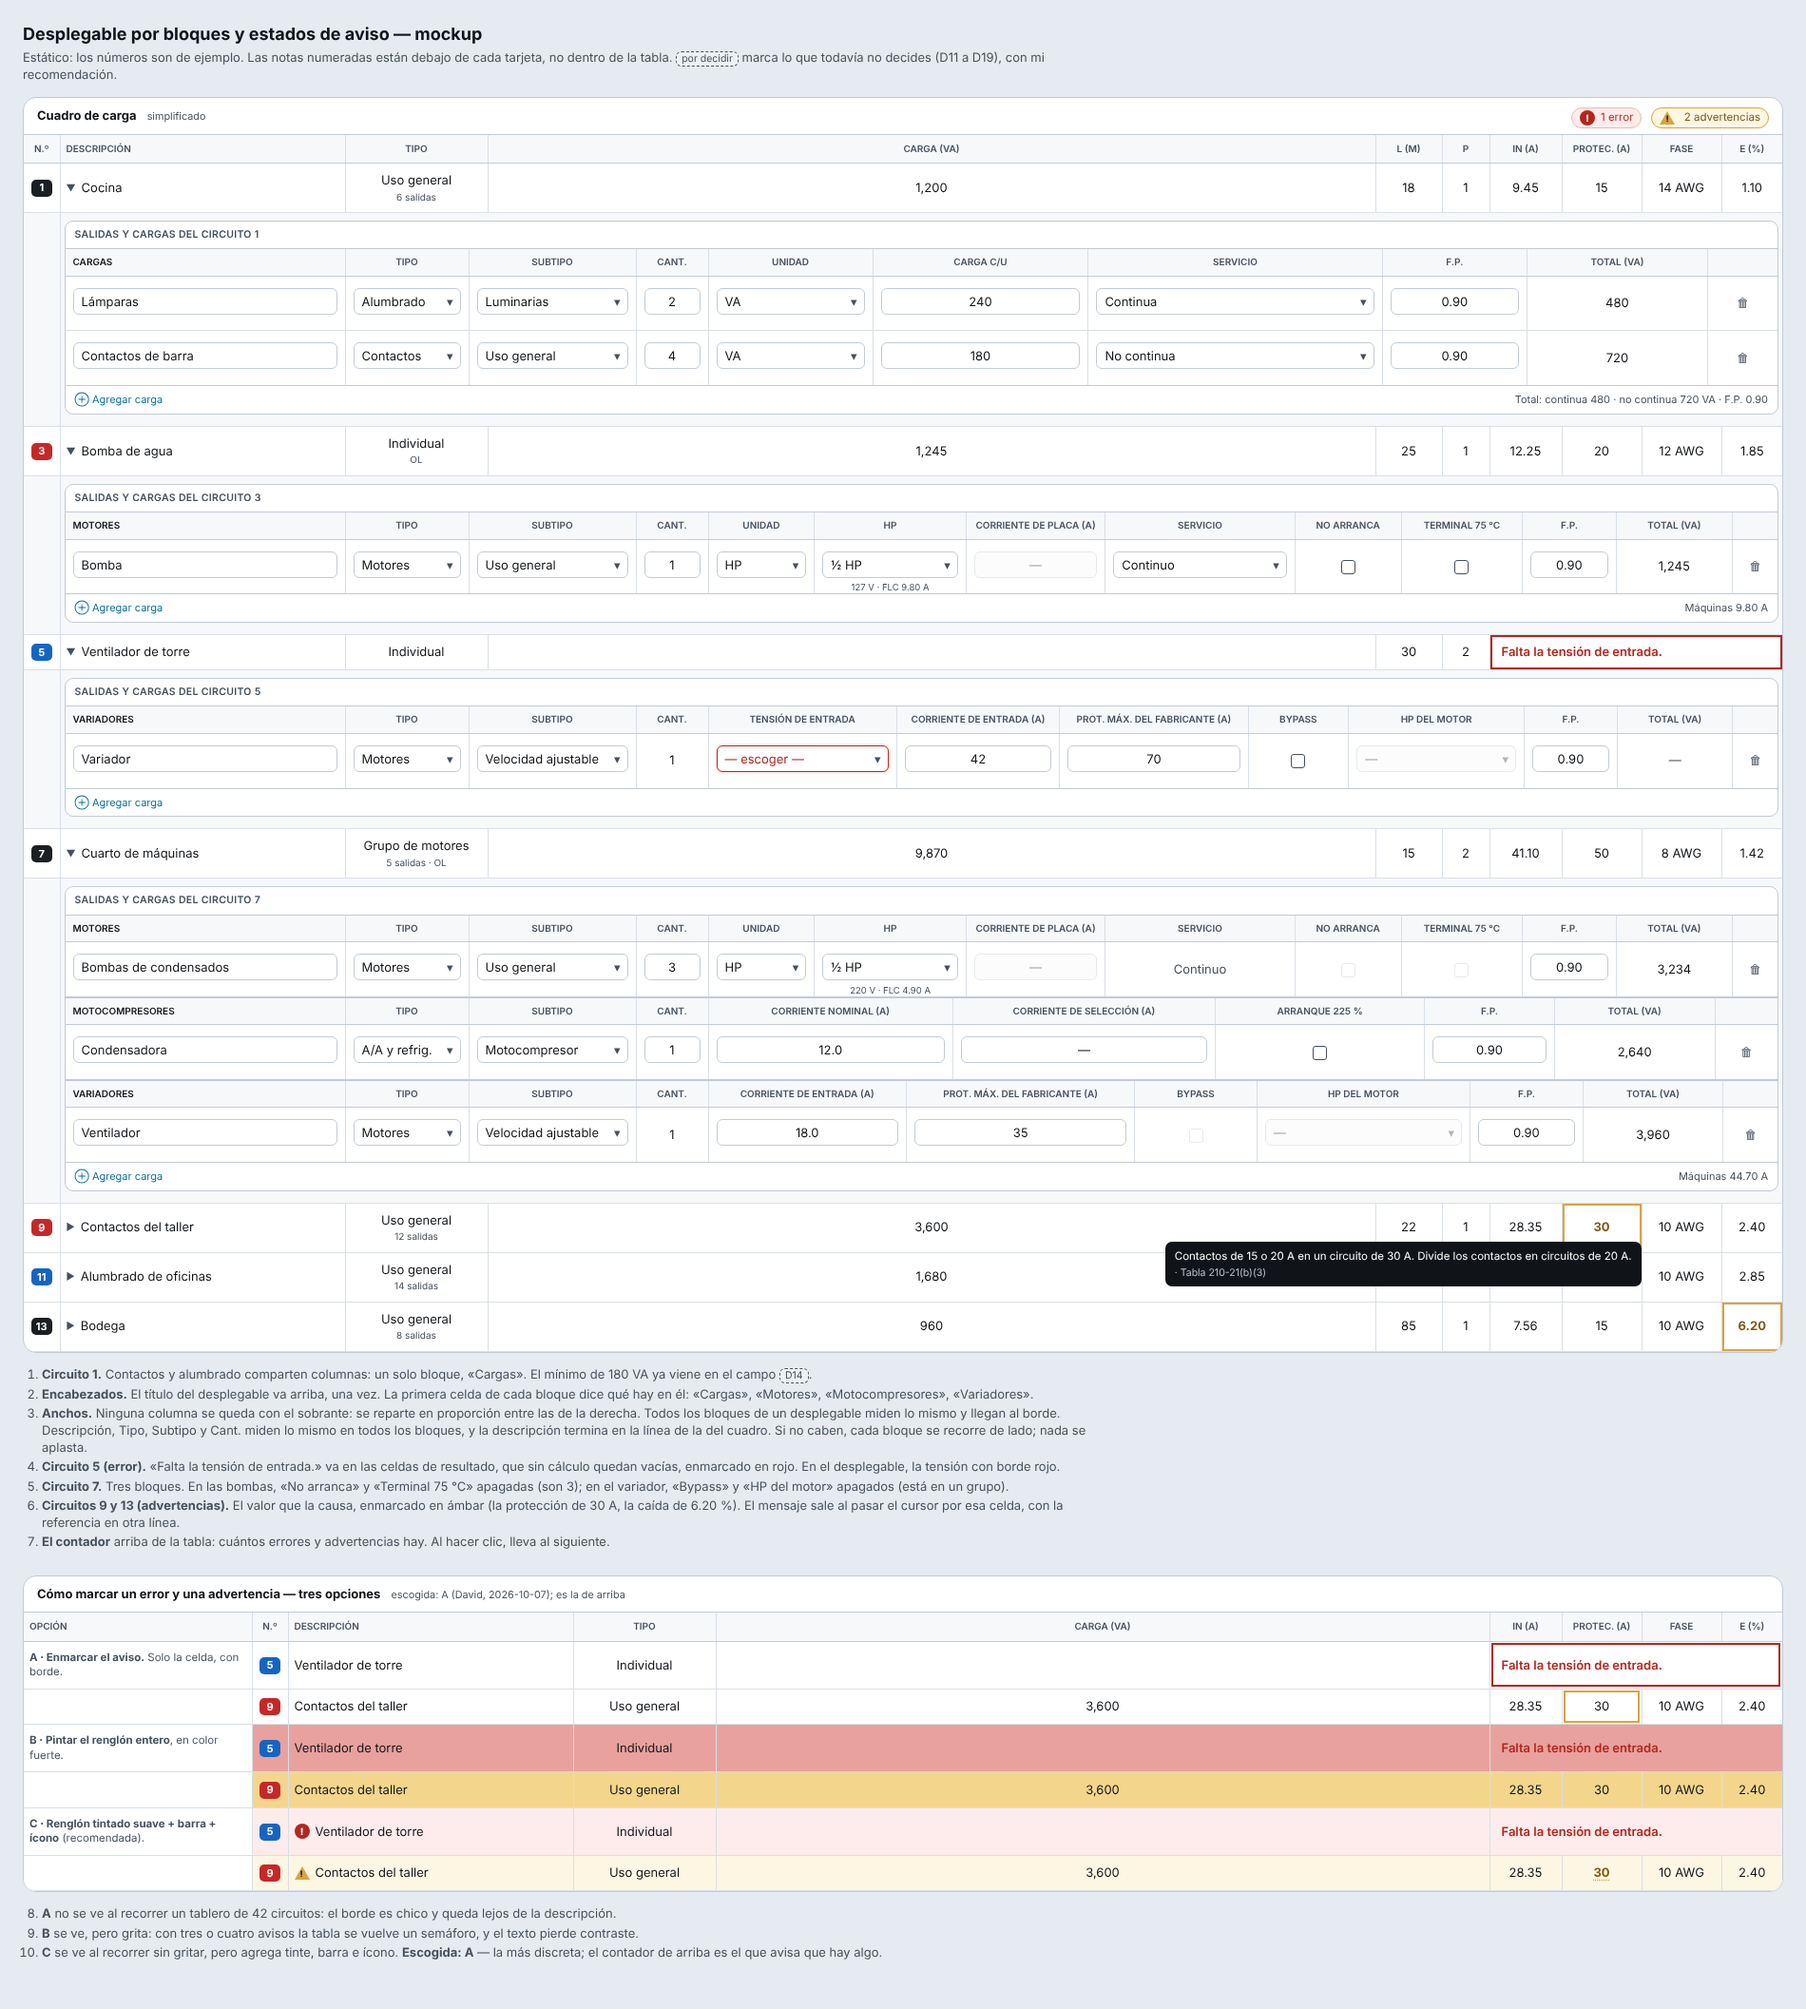
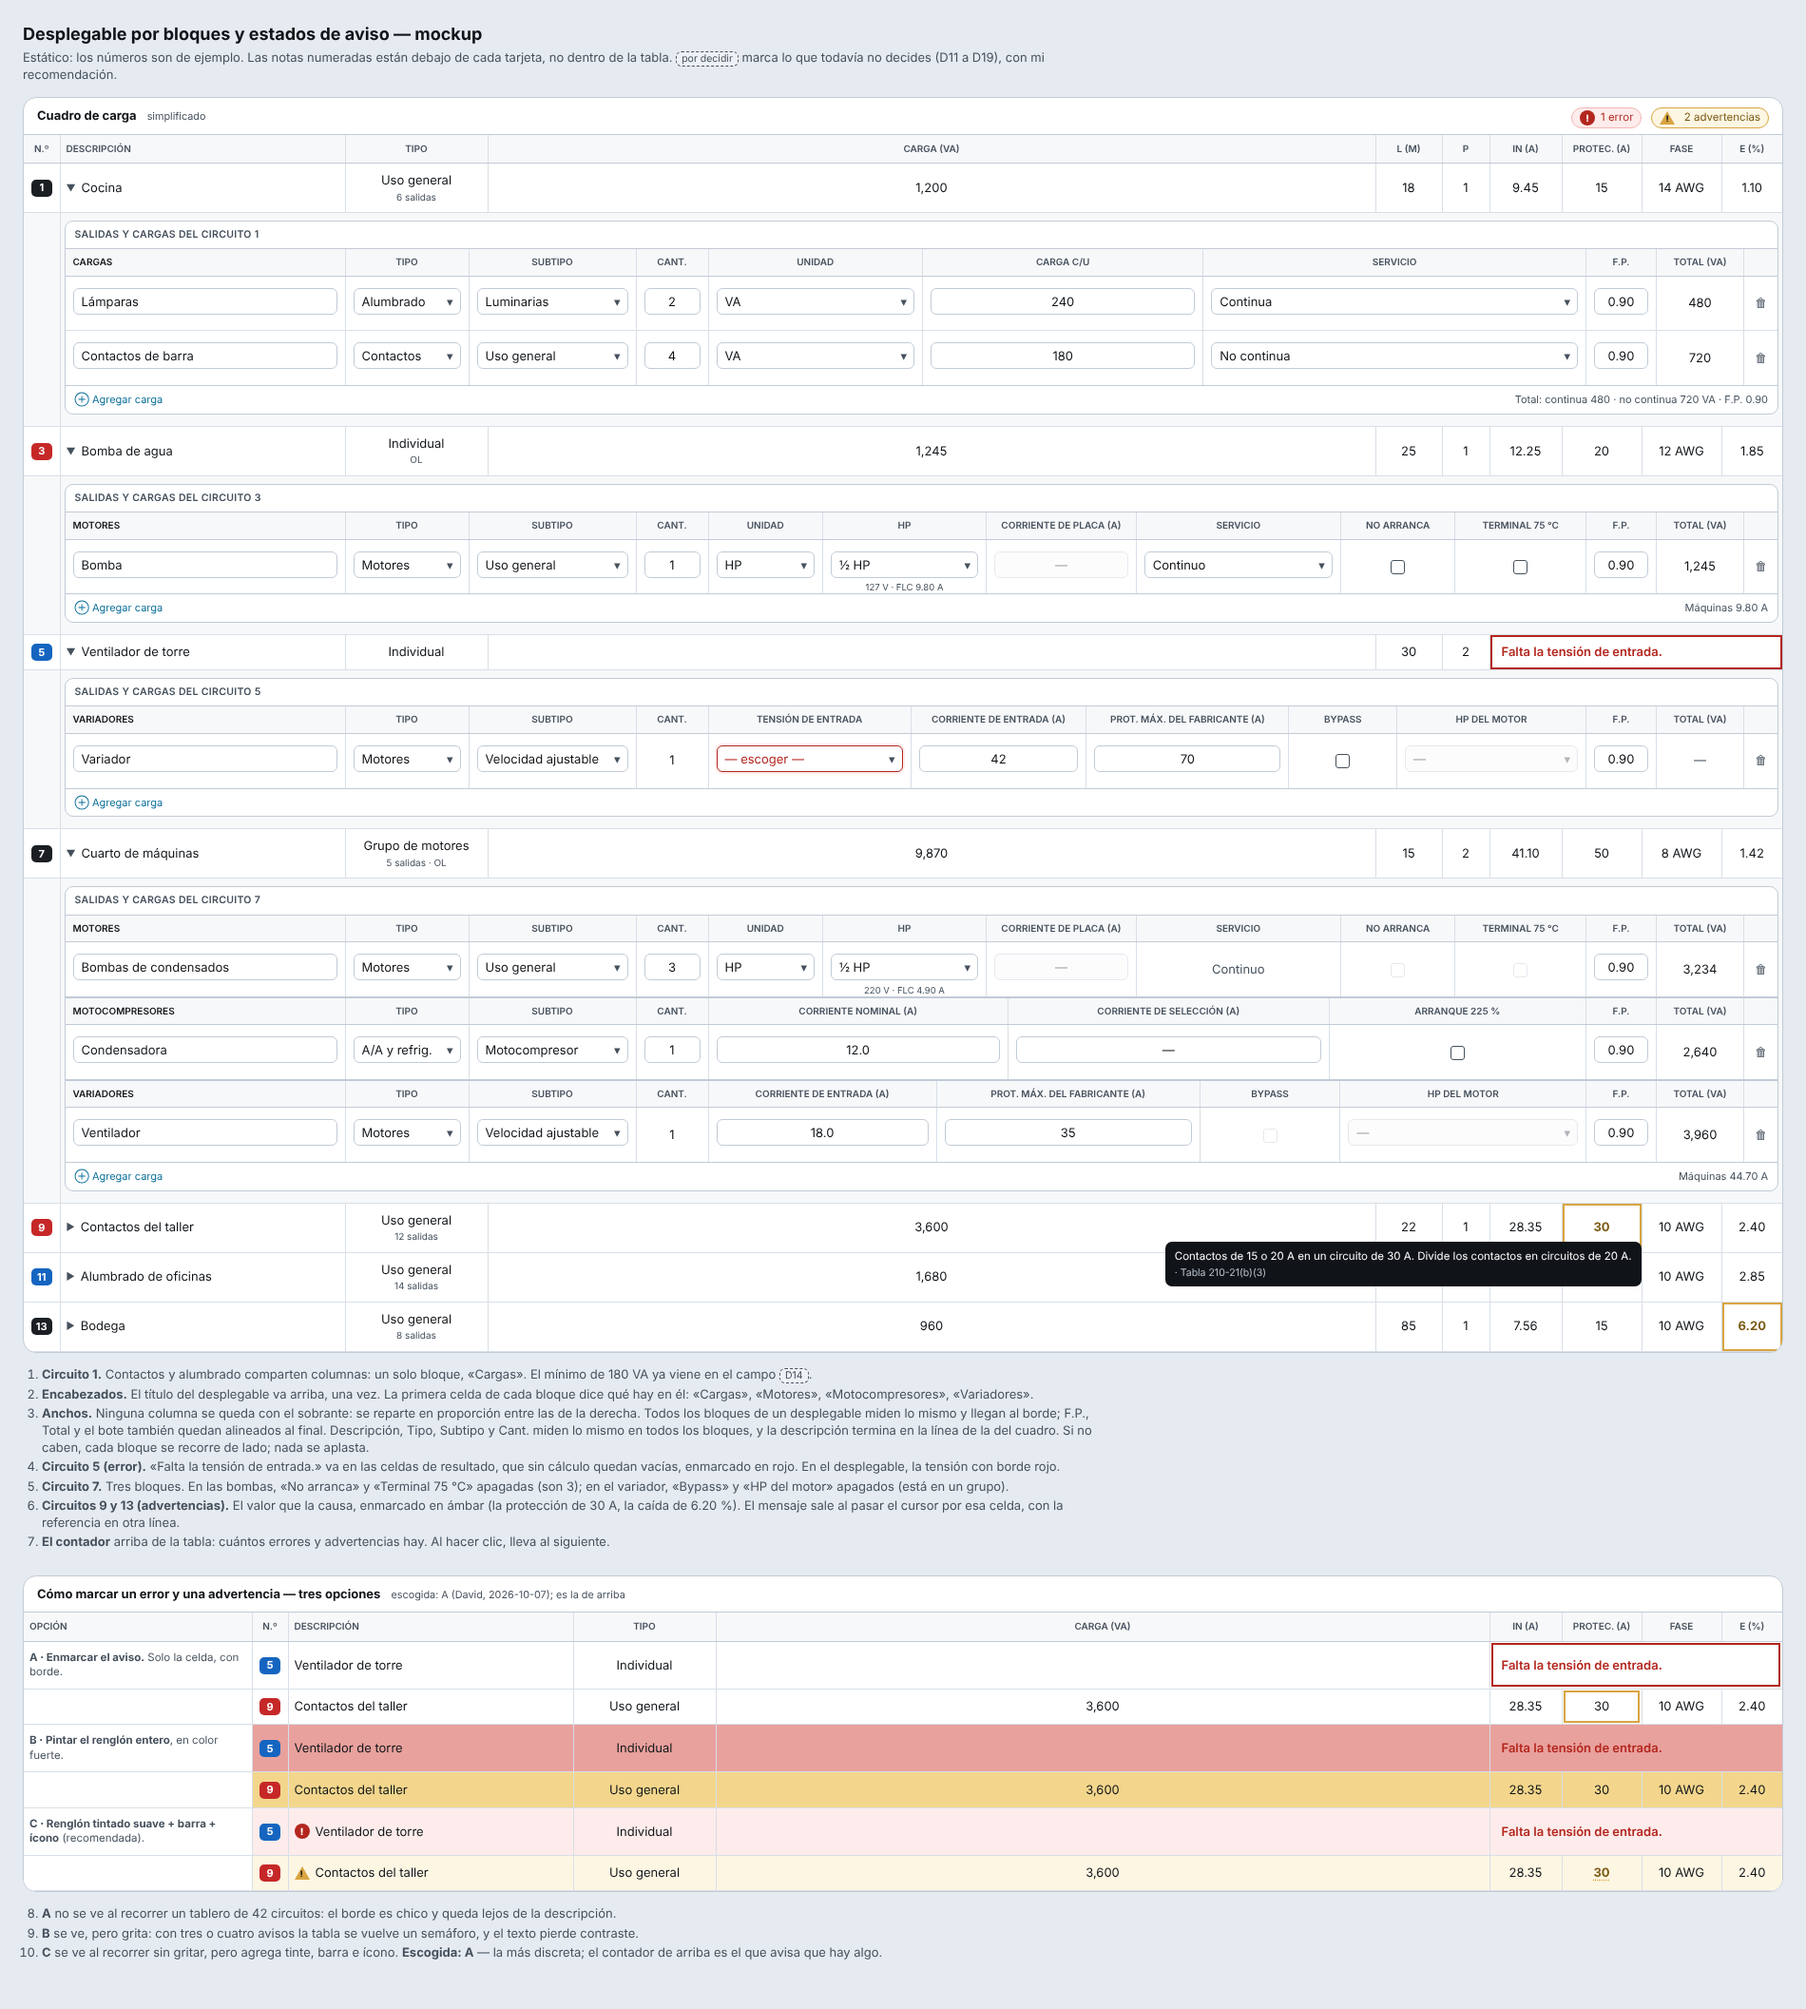
Docs: mockup — F.P., Total y el bote, alineados al final de todos los bloques
Claude-Session: https://claude.ai/code/session_01MnxpHgfUvDcquuwT9pQmd6

diff --git a/docs/mockups/desglose-por-bloques.html b/docs/mockups/desglose-por-bloques.html
@@ -123,7 +123,7 @@ tr.fila-desglose > td { background:var(--fondo-suave); padding:8px 4px 12px; tex
       <div class="titulo-desglose">Salidas y cargas del circuito 1</div>
       <div class="recorre">
       <table class="bloque">
-        <colgroup><col data-desc><col data-w="130" data-g><col data-w="176" data-g><col data-w="76" data-g><col data-w="84"><col data-w="110"><col data-w="150"><col data-w="74"><col data-w="92"><col data-w="36"></colgroup>
+        <colgroup><col data-desc><col data-w="130" data-g><col data-w="176" data-g><col data-w="76" data-g><col data-w="84"><col data-w="110"><col data-w="150"><col data-w="74" data-g><col data-w="92" data-g><col data-w="36" data-g></colgroup>
         <thead><tr><th class="izq nombre">Cargas</th><th>Tipo</th><th>Subtipo</th><th>Cant.</th><th>Unidad</th><th>Carga c/u</th><th>Servicio</th><th>F.P.</th><th>Total (VA)</th><th></th></tr></thead>
         <tbody>
           <tr><td class="izq"><span class="campo">Lámparas</span></td><td><span class="sel">Alumbrado</span></td><td><span class="sel">Luminarias</span></td><td><span class="campo num">2</span></td><td><span class="sel">VA</span></td><td><span class="campo num">240</span></td><td><span class="sel">Continua</span></td><td><span class="campo num">0.90</span></td><td>480</td><td class="tenue">🗑</td></tr>
@@ -142,7 +142,7 @@ tr.fila-desglose > td { background:var(--fondo-suave); padding:8px 4px 12px; tex
       <div class="titulo-desglose">Salidas y cargas del circuito 3</div>
       <div class="recorre">
       <table class="bloque">
-        <colgroup><col data-desc><col data-w="130" data-g><col data-w="176" data-g><col data-w="76" data-g><col data-w="84"><col data-w="120"><col data-w="110"><col data-w="150"><col data-w="84"><col data-w="96"><col data-w="74"><col data-w="92"><col data-w="36"></colgroup>
+        <colgroup><col data-desc><col data-w="130" data-g><col data-w="176" data-g><col data-w="76" data-g><col data-w="84"><col data-w="120"><col data-w="110"><col data-w="150"><col data-w="84"><col data-w="96"><col data-w="74" data-g><col data-w="92" data-g><col data-w="36" data-g></colgroup>
         <thead><tr><th class="izq nombre">Motores</th><th>Tipo</th><th>Subtipo</th><th>Cant.</th><th>Unidad</th><th>HP</th><th>Corriente de placa (A)</th><th>Servicio</th><th>No arranca</th><th>Terminal 75 °C</th><th>F.P.</th><th>Total (VA)</th><th></th></tr></thead>
         <tbody>
           <tr><td class="izq"><span class="campo">Bomba</span></td><td><span class="sel">Motores</span></td><td><span class="sel">Uso general</span></td><td><span class="campo num">1</span></td><td><span class="sel">HP</span></td>
@@ -162,7 +162,7 @@ tr.fila-desglose > td { background:var(--fondo-suave); padding:8px 4px 12px; tex
       <div class="titulo-desglose">Salidas y cargas del circuito 5</div>
       <div class="recorre">
       <table class="bloque">
-        <colgroup><col data-desc><col data-w="130" data-g><col data-w="176" data-g><col data-w="76" data-g><col data-w="150"><col data-w="130"><col data-w="150"><col data-w="80"><col data-w="140"><col data-w="74"><col data-w="92"><col data-w="36"></colgroup>
+        <colgroup><col data-desc><col data-w="130" data-g><col data-w="176" data-g><col data-w="76" data-g><col data-w="150"><col data-w="130"><col data-w="150"><col data-w="80"><col data-w="140"><col data-w="74" data-g><col data-w="92" data-g><col data-w="36" data-g></colgroup>
         <thead><tr><th class="izq nombre">Variadores</th><th>Tipo</th><th>Subtipo</th><th>Cant.</th><th>Tensión de entrada</th><th>Corriente de entrada (A)</th><th>Prot. máx. del fabricante (A)</th><th>Bypass</th><th>HP del motor</th><th>F.P.</th><th>Total (VA)</th><th></th></tr></thead>
         <tbody>
           <tr><td class="izq"><span class="campo">Variador</span></td><td><span class="sel">Motores</span></td><td><span class="sel">Velocidad ajustable</span></td><td>1</td>
@@ -181,7 +181,7 @@ tr.fila-desglose > td { background:var(--fondo-suave); padding:8px 4px 12px; tex
       <div class="titulo-desglose">Salidas y cargas del circuito 7</div>
       <div class="recorre">
       <table class="bloque">
-        <colgroup><col data-desc><col data-w="130" data-g><col data-w="176" data-g><col data-w="76" data-g><col data-w="84"><col data-w="120"><col data-w="110"><col data-w="150"><col data-w="84"><col data-w="96"><col data-w="74"><col data-w="92"><col data-w="36"></colgroup>
+        <colgroup><col data-desc><col data-w="130" data-g><col data-w="176" data-g><col data-w="76" data-g><col data-w="84"><col data-w="120"><col data-w="110"><col data-w="150"><col data-w="84"><col data-w="96"><col data-w="74" data-g><col data-w="92" data-g><col data-w="36" data-g></colgroup>
         <thead><tr><th class="izq nombre">Motores</th><th>Tipo</th><th>Subtipo</th><th>Cant.</th><th>Unidad</th><th>HP</th><th>Corriente de placa (A)</th><th>Servicio</th><th>No arranca</th><th>Terminal 75 °C</th><th>F.P.</th><th>Total (VA)</th><th></th></tr></thead>
         <tbody>
           <tr><td class="izq"><span class="campo">Bombas de condensados</span></td><td><span class="sel">Motores</span></td><td><span class="sel">Uso general</span></td><td><span class="campo num">3</span></td><td><span class="sel">HP</span></td>
@@ -189,14 +189,14 @@ tr.fila-desglose > td { background:var(--fondo-suave); padding:8px 4px 12px; tex
         </tbody>
       </table>
       <table class="bloque">
-        <colgroup><col data-desc><col data-w="130" data-g><col data-w="176" data-g><col data-w="76" data-g><col data-w="140"><col data-w="150"><col data-w="120"><col data-w="74"><col data-w="92"><col data-w="36"></colgroup>
+        <colgroup><col data-desc><col data-w="130" data-g><col data-w="176" data-g><col data-w="76" data-g><col data-w="140"><col data-w="150"><col data-w="120"><col data-w="74" data-g><col data-w="92" data-g><col data-w="36" data-g></colgroup>
         <thead><tr><th class="izq nombre">Motocompresores</th><th>Tipo</th><th>Subtipo</th><th>Cant.</th><th>Corriente nominal (A)</th><th>Corriente de selección (A)</th><th>Arranque 225 %</th><th>F.P.</th><th>Total (VA)</th><th></th></tr></thead>
         <tbody>
           <tr><td class="izq"><span class="campo">Condensadora</span></td><td><span class="sel">A/A y refrig.</span></td><td><span class="sel">Motocompresor</span></td><td><span class="campo num">1</span></td><td><span class="campo num">12.0</span></td><td><span class="campo num">—</span></td><td><span class="caja"></span></td><td><span class="campo num">0.90</span></td><td>2,640</td><td class="tenue">🗑</td></tr>
         </tbody>
       </table>
       <table class="bloque">
-        <colgroup><col data-desc><col data-w="130" data-g><col data-w="176" data-g><col data-w="76" data-g><col data-w="130"><col data-w="150"><col data-w="80"><col data-w="140"><col data-w="74"><col data-w="92"><col data-w="36"></colgroup>
+        <colgroup><col data-desc><col data-w="130" data-g><col data-w="176" data-g><col data-w="76" data-g><col data-w="130"><col data-w="150"><col data-w="80"><col data-w="140"><col data-w="74" data-g><col data-w="92" data-g><col data-w="36" data-g></colgroup>
         <thead><tr><th class="izq nombre">Variadores</th><th>Tipo</th><th>Subtipo</th><th>Cant.</th><th>Corriente de entrada (A)</th><th>Prot. máx. del fabricante (A)</th><th>Bypass</th><th>HP del motor</th><th>F.P.</th><th>Total (VA)</th><th></th></tr></thead>
         <tbody>
           <tr><td class="izq"><span class="campo">Ventilador</span></td><td><span class="sel">Motores</span></td><td><span class="sel">Velocidad ajustable</span></td><td>1</td><td><span class="campo num">18.0</span></td><td><span class="campo num">35</span></td><td><span class="caja apagado"></span></td><td><span class="sel apagado">—</span></td><td><span class="campo num">0.90</span></td><td>3,960</td><td class="tenue">🗑</td></tr>
@@ -221,7 +221,7 @@ tr.fila-desglose > td { background:var(--fondo-suave); padding:8px 4px 12px; tex
 <ol class="notas">
   <li><b>Circuito 1.</b> Contactos y alumbrado comparten columnas: un solo bloque, «Cargas». El mínimo de 180 VA ya viene en el campo <span class="pendiente">D14</span>.</li>
   <li><b>Encabezados.</b> El título del desplegable va arriba, una vez. La primera celda de cada bloque dice qué hay en él: «Cargas», «Motores», «Motocompresores», «Variadores».</li>
-  <li><b>Anchos.</b> Ninguna columna se queda con el sobrante: se reparte en proporción entre las de la derecha. Todos los bloques de un desplegable miden lo mismo y llegan al borde. Descripción, Tipo, Subtipo y Cant. miden lo mismo en todos los bloques, y la descripción termina en la línea de la del cuadro. Si no caben, cada bloque se recorre de lado; nada se aplasta.</li>
+  <li><b>Anchos.</b> Ninguna columna se queda con el sobrante: se reparte en proporción entre las de la derecha. Todos los bloques de un desplegable miden lo mismo y llegan al borde; F.P., Total y el bote también quedan alineados al final. Descripción, Tipo, Subtipo y Cant. miden lo mismo en todos los bloques, y la descripción termina en la línea de la del cuadro. Si no caben, cada bloque se recorre de lado; nada se aplasta.</li>
   <li><b>Circuito 5 (error).</b> «Falta la tensión de entrada.» va en las celdas de resultado, que sin cálculo quedan vacías, enmarcado en rojo. En el desplegable, la tensión con borde rojo.</li>
   <li><b>Circuito 7.</b> Tres bloques. En las bombas, «No arranca» y «Terminal 75 °C» apagadas (son 3); en el variador, «Bypass» y «HP del motor» apagados (está en un grupo).</li>
   <li><b>Circuitos 9 y 13 (advertencias).</b> El valor que la causa, enmarcado en ámbar (la protección de 30 A, la caída de 6.20 %). El mensaje sale al pasar el cursor por esa celda, con la referencia en otra línea.</li>
@@ -269,7 +269,8 @@ function anchos() {
     datos.forEach(({ t, cols, base, repartible }) => {
       t.style.width = ancho + 'px';
       const sobra = ancho - base - desc;
-      // Descripción, Tipo, Subtipo y Cant., iguales en todos; el sobrante, en proporción entre las demás.
+      // Las fijas, iguales en todos: Descripción, Tipo, Subtipo y Cant. al principio; F.P., Total y el bote al final.
+      // El sobrante, en proporción entre las del medio.
       cols.forEach(c => { c.style.width = c.hasAttribute('data-desc') ? desc + 'px'
         : c.hasAttribute('data-g') ? c.dataset.w + 'px' : ((+c.dataset.w) + sobra * (+c.dataset.w) / repartible) + 'px'; });
     });
